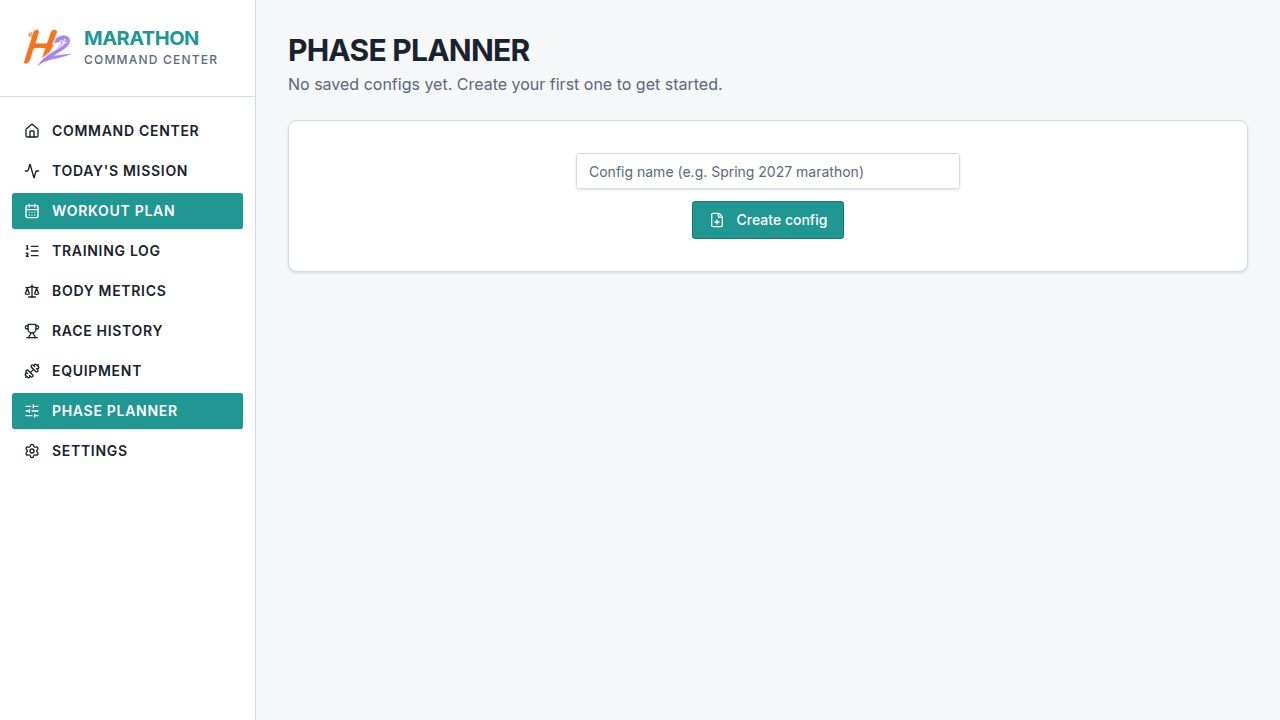
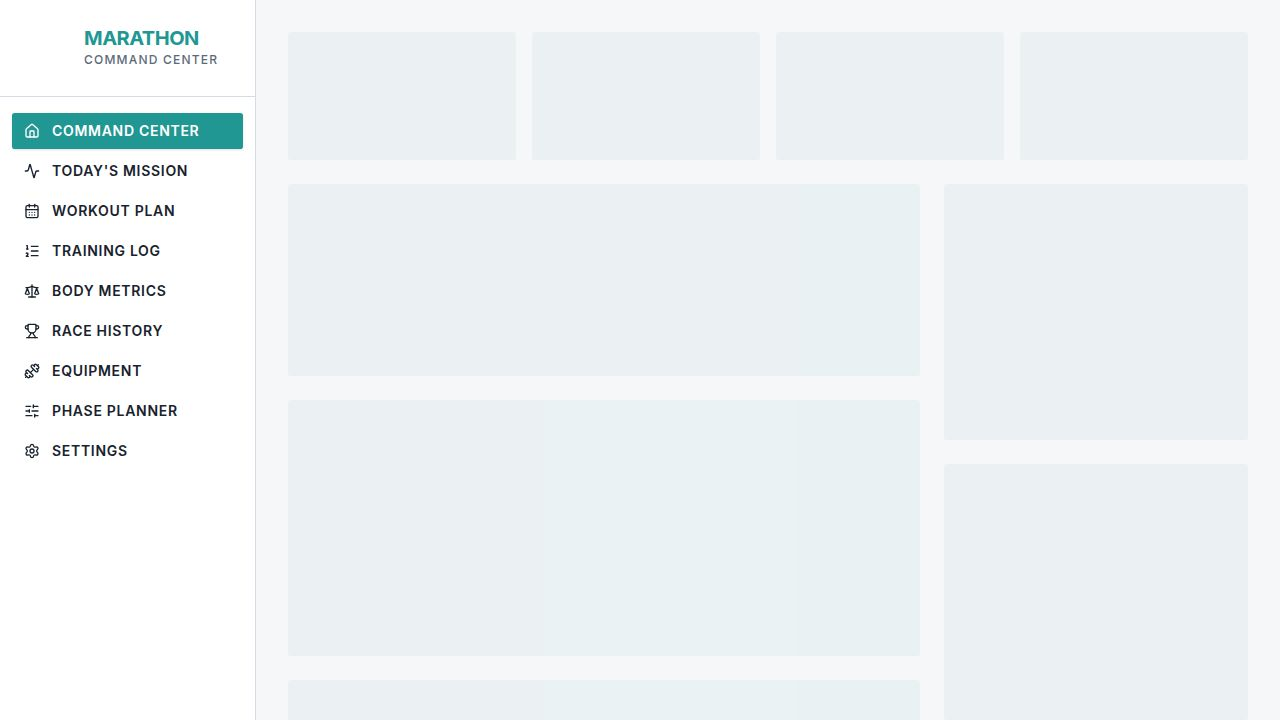
Task #351: e2e coverage for the dashboard next-scheduled-race chip
Adds tests/e2e/specs/next-scheduled-race-chip.spec.ts driving the live
api-server + command-center workflows through the shared proxy. The
spec serializes five cases against the chip rendered by
artifacts/command-center/src/pages/dashboard.tsx (component:
artifacts/command-center/src/components/next-scheduled-race-chip.tsx):

  1. No scheduled races → no chip on /.
  2. Future 5K scheduled 30 days out → chip visible with
     "Next race · 5K · in 30 days", href="/races", and the
     data-race-date / data-race-kind / data-days-until attributes set.
  3. Race scheduled for the server-computed "today" (read back from
     /api/plan/today so we don't drift across timezones) → chip flips
     to the "Race Today · 5K" variant with data-days-until="0".
  4. Past-dated race row still stored (raceDate = today - 1) → no chip,
     verifying the server's `raceDate >= today` filter in
     fetchNextScheduledRace. Includes a sanity GET on /api/scheduled-races
     so the assertion isn't a vacuous truth.
  5. Deleting a future scheduled race removes the chip from /.

Helpers:
  - clearScheduledRaces() truncates race_results then scheduled_races
    via DATABASE_URL (mirrors the empty-plan spec's pg client pattern,
    skipping when DATABASE_URL isn't set).
  - ensurePlanApplied() applies a minimal 8-week Tonal upper-body
    PlannerConfig via POST /api/planner/configs + /api/planner/apply
    if /api/plan/overview reports hasPlan=false, so the dashboard
[…]

diff --git a/tests/e2e/specs/next-scheduled-race-chip.spec.ts b/tests/e2e/specs/next-scheduled-race-chip.spec.ts
@@ -1,0 +1,244 @@
+import { test, expect, type APIRequestContext } from "@playwright/test";
+import { Client } from "pg";
+
+// Task #351: end-to-end coverage of the dashboard's next-race chip that
+// Task #348 added (mirroring the chip already on /today). Drives the
+// live api-server + web workflows via the shared proxy:
+//   - schedules a future 5K via POST /api/scheduled-races and asserts
+//     the chip appears on / with the expected copy and href
+//   - re-schedules the same race for "today" (the server-computed date
+//     from /api/plan/today) and asserts the "Race Today · 5K" variant
+//   - clears every scheduled race and asserts the chip disappears
+//
+// Run against the locally-running workflows:
+//   pnpm --filter @workspace/e2e-tests run test:e2e
+
+test.describe.configure({ mode: "serial" });
+
+const CHIP = "dashboard-chip-next-scheduled-race";
+
+test.describe("Dashboard next-scheduled-race chip (Task #351)", () => {
+  test.beforeAll(async ({ request }) => {
+    await clearScheduledRaces();
+    // The dashboard chip only renders inside the normal dashboard UI
+    // (i.e. when a plan has been applied). Make sure that's true before
+    // we start exercising the chip — if the EmptyPlanState CTA is up,
+    // the chip never reaches the DOM.
+    await ensurePlanApplied(request);
+  });
+
+  test.afterAll(async () => {
+    await clearScheduledRaces();
+  });
+
+  test("no scheduled races → no chip on /", async ({ page }) => {
+    await clearScheduledRaces();
+    await page.goto("/");
+    await expect(page.getByTestId("dashboard-header")).toBeVisible();
+    await expect(page.getByTestId(CHIP)).toHaveCount(0);
+  });
+
+  test("future 5K → chip renders with 'Next race · 5K · in N days' and links to /races", async ({
+    page,
+    request,
+  }) => {
+    await clearScheduledRaces();
+    const today = await fetchServerToday(request);
+    const raceDate = isoPlusDays(today, 30);
+
+    const create = await request.post("/api/scheduled-races", {
+      data: { raceDate, raceKind: "5k", name: "E2E Tune-up 5K" },
+    });
+    expect(
+      create.ok(),
+      `POST /api/scheduled-races failed: ${create.status()} ${await create.text()}`,
+    ).toBeTruthy();
+
+    await page.goto("/");
+    const chip = page.getByTestId(CHIP);
+    await expect(chip).toBeVisible();
+    await expect(chip).toContainText("Next race");
+    await expect(chip).toContainText("5K");
+    await expect(chip).toContainText("in 30 days");
+    await expect(chip).toHaveAttribute("href", "/races");
+    await expect(chip).toHaveAttribute("data-race-date", raceDate);
+    await expect(chip).toHaveAttribute("data-race-kind", "5k");
+    await expect(chip).toHaveAttribute("data-days-until", "30");
+  });
+
+  test("race scheduled for today → 'Race Today · 5K' variant renders", async ({
+    page,
+    request,
+  }) => {
+    await clearScheduledRaces();
+    const today = await fetchServerToday(request);
+
+    const create = await request.post("/api/scheduled-races", {
+      data: { raceDate: today, raceKind: "5k", name: "E2E Race Day 5K" },
+    });
+    expect(
+      create.ok(),
+      `POST /api/scheduled-races failed: ${create.status()} ${await create.text()}`,
+    ).toBeTruthy();
+
+    await page.goto("/");
+    const chip = page.getByTestId(CHIP);
+    await expect(chip).toBeVisible();
+    await expect(chip).toContainText("Race Today");
+    await expect(chip).toContainText("5K");
+    await expect(chip).toHaveAttribute("data-race-date", today);
+    await expect(chip).toHaveAttribute("data-days-until", "0");
+    await expect(chip).toHaveAttribute("href", "/races");
+  });
+
+  test("past-dated scheduled race (date already passed) → no chip", async ({
+    page,
+    request,
+  }) => {
+    // The server filters nextScheduledRace with `raceDate >= today`
+    // (artifacts/api-server/src/routes/plan.ts fetchNextScheduledRace),
+    // so a race whose date has already come and gone must not surface
+    // the chip even though the row is still stored. We seed the past
+    // row directly via the API (POST /api/scheduled-races accepts any
+    // ISO date — there's no server-side past-date guard) and assert
+    // the dashboard renders no chip.
+    await clearScheduledRaces();
+    const today = await fetchServerToday(request);
+    const pastDate = isoPlusDays(today, -1);
+
+    const create = await request.post("/api/scheduled-races", {
+      data: { raceDate: pastDate, raceKind: "5k", name: "E2E Past 5K" },
+    });
+    expect(
+      create.ok(),
+      `POST /api/scheduled-races failed: ${create.status()} ${await create.text()}`,
+    ).toBeTruthy();
+
+    // Sanity-check that the past row really is stored — otherwise the
+    // "no chip" assertion below would be a vacuous truth (same as the
+    // empty-state test above).
+    const list = await request.get("/api/scheduled-races");
+    expect(list.ok()).toBeTruthy();
+    const rows = (await list.json()) as Array<{ raceDate: string }>;
+    expect(
+      rows.find((r) => r.raceDate === pastDate),
+      "past scheduled race was not persisted; the no-chip assertion would be vacuous",
+    ).toBeTruthy();
+
+    await page.goto("/");
+    await expect(page.getByTestId("dashboard-header")).toBeVisible();
+    await expect(page.getByTestId(CHIP)).toHaveCount(0);
+  });
+
+  test("deleting the scheduled race removes the chip from /", async ({
+    page,
+    request,
+  }) => {
+    await clearScheduledRaces();
+    const today = await fetchServerToday(request);
+    const raceDate = isoPlusDays(today, 14);
+
+    const create = await request.post("/api/scheduled-races", {
+      data: { raceDate, raceKind: "5k" },
+    });
+    expect(create.ok()).toBeTruthy();
+
+    await page.goto("/");
+    await expect(page.getByTestId(CHIP)).toBeVisible();
+
+    const del = await request.delete(`/api/scheduled-races/${raceDate}`);
+    expect(
+      del.ok(),
+      `DELETE /api/scheduled-races/${raceDate} failed: ${del.status()} ${await del.text()}`,
+    ).toBeTruthy();
+
+    await page.goto("/");
+    await expect(page.getByTestId("dashboard-header")).toBeVisible();
+    await expect(page.getByTestId(CHIP)).toHaveCount(0);
+  });
+});
+
+// --- Helpers ---------------------------------------------------------------
+
+async function clearScheduledRaces(): Promise<void> {
+  const databaseUrl = process.env.DATABASE_URL;
+  test.skip(
+    !databaseUrl,
+    "DATABASE_URL not set; cannot reset scheduled_races between tests",
+  );
+  const client = new Client({ connectionString: databaseUrl });
+  await client.connect();
+  try {
+    // race_results FK-references scheduled_races by race_date; clear it
+    // first so we never trip the FK and so a leftover result row from a
+    // prior run doesn't flip hasResult on our newly-created chip.
+    await client.query(`DELETE FROM race_results`);
+    await client.query(`DELETE FROM scheduled_races`);
+  } finally {
+    await client.end();
+  }
+}
+
+async function fetchServerToday(request: APIRequestContext): Promise<string> {
+  const res = await request.get("/api/plan/today");
+  expect(
+    res.ok(),
+    `GET /api/plan/today failed: ${res.status()} ${await res.text()}`,
+  ).toBeTruthy();
+  const body = (await res.json()) as { date: string };
+  expect(body.date).toMatch(/^\d{4}-\d{2}-\d{2}$/);
+  return body.date;
+}
+
+function isoPlusDays(iso: string, days: number): string {
+  const d = new Date(`${iso}T00:00:00Z`);
+  d.setUTCDate(d.getUTCDate() + days);
+  return d.toISOString().slice(0, 10);
+}
+
+async function ensurePlanApplied(request: APIRequestContext): Promise<void> {
+  const overview = await request.get("/api/plan/overview");
+  if (overview.ok()) {
+    const body = (await overview.json()) as { hasPlan?: boolean };
+    if (body.hasPlan) return;
+  }
+  // Mirror applyFreshConfig in empty-plan-ui.spec.ts: minimal 8-week
+  // Tonal upper-body config + the auto-pinned 16-week MARATHON_TAIL.
+  const today = await fetchServerToday(request);
+  const startDate = nextMondayISO(today);
+  const totalDays = (8 + 16) * 7 - 1;
+  const marathonDate = isoPlusDays(startDate, totalDays);
+  const createRes = await request.post("/api/planner/configs", {
+    data: {
+      name: "E2E Next-Race Chip",
+      startDate,
+      marathonDate,
+      blocks: [
+        {
+          focusType: "Custom",
+          weeks: 8,
+          customName: "Tonal Strength — Upper",
+          customNotes: "[lift-primary:upper]",
+        },
+      ],
+      setActive: true,
+    },
+  });
+  expect(
+    createRes.ok(),
+    `POST /api/planner/configs failed: ${createRes.status()} ${await createRes.text()}`,
+  ).toBeTruthy();
+  const applyRes = await request.post("/api/planner/apply", { data: {} });
+  expect(
+    applyRes.ok(),
+    `POST /api/planner/apply failed: ${applyRes.status()} ${await applyRes.text()}`,
+  ).toBeTruthy();
+}
+
+function nextMondayISO(fromIso: string): string {
+  const d = new Date(`${fromIso}T00:00:00Z`);
+  const dow = d.getUTCDay();
+  const offset = ((1 - dow + 7) % 7) || 7;
+  d.setUTCDate(d.getUTCDate() + offset);
+  return d.toISOString().slice(0, 10);
+}